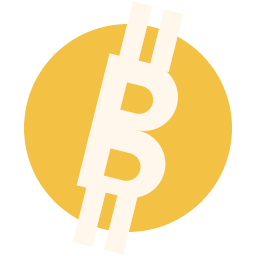
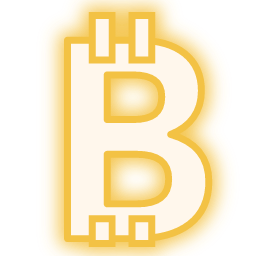
feat: restore the original glyphs, drop the circle, add an accent glow
The circle was the problem, not the glyphs. Five identical outlines with the
identity hidden inside meant colour did all the work; measured, every pairwise
silhouette distance was 0.000. The glyphs themselves — bolt, mark, key, arcs,
lock — were always distinct shapes, so removing the container turns the glyph
into the silhouette and frees it to grow into the space the circle used.

The accent moves from the circle's stroke to a halo behind the glyph: the same
shape stroked wide in the affinity colour and blurred, with the crisp cream glyph
on top. Two passes rather than a filter alone, so it still reads as a hard edge in
print where a pure blur goes muddy. resvg was checked for filter support before
relying on it.

Signal gets a dimmer halo than the rest. Its accent IS cream, so a cream glow
behind a cream glyph blew out into a white disc at the first attempt.

scripts/build_icons.py regenerates the set, so the geometry is reproducible rather
than five hand-edited files.

diff --git a/scripts/build_icons.py b/scripts/build_icons.py
@@ -1,0 +1,110 @@
+"""Rebuild the resource icons: the original glyphs, no containing circle, accent glow.
+
+The circle was what made the old set indistinguishable — five identical outlines with
+the identity hidden inside. The glyphs themselves were always distinct shapes, so
+dropping the circle turns the glyph into the silhouette and frees it to fill the box.
+
+The accent colour moves from the circle's stroke to a halo drawn behind the glyph:
+the same shape stroked wide in the affinity colour and blurred, with the crisp cream
+glyph on top. Two passes rather than a filter alone, so the icon still reads as a hard
+edge in print where a pure blur would go muddy.
+"""
+
+import os
+
+REPO = "G:/Github/TCG600nap"
+OUT = f"{REPO}/art/resources"
+
+ACCENT = {
+    "power": "#FF6A00",
+    "bitcoin": "#F3C244",
+    "keys": "#7447B8",
+    "signal": "#FFF7EC",
+    "timelock": "#17BEBB",
+}
+
+# The original glyph bodies, lifted verbatim from the pre-redesign icons. `{c}` is the
+# accent for the halo pass and `{f}` the fill for the crisp pass, so one body renders
+# both. `scale` lets each glyph grow into the space the circle used to occupy.
+GLYPH = {
+    "power": (
+        1.32,
+        '<path fill="{f}" stroke="{c}" stroke-width="{w}" stroke-linejoin="round"'
+        ' d="M35.3 8 17.8 35.1h11.4L25.9 56 46.2 27.5H34.4L35.3 8Z"/>',
+    ),
+    "bitcoin": (
+        1.24,
+        '<g transform="translate(-3.2 -.7)">'
+        '<path fill="{f}" stroke="{c}" stroke-width="{w}" stroke-linejoin="round"'
+        ' d="M23 15h14.2c8.1 0 12.8 3.8 12.8 10.2 0 4.1-2.2 7.2-6.2 8.8 5 1.4 7.7 4.7 7.7 9.5C51.5 51 46 55 37 55H23V15Zm8 7v9h5.2c4 0 5.8-1.4 5.8-4.6 0-3-1.9-4.4-5.8-4.4H31Zm0 16v10h6c4.4 0 6.4-1.7 6.4-5 0-3.4-2.2-5-6.5-5H31Z"/>'  # noqa: E501
+        '<rect x="28" y="10" width="4" height="9" fill="{f}" stroke="{c}" stroke-width="{w}"/>'
+        '<rect x="36" y="10" width="4" height="9" fill="{f}" stroke="{c}" stroke-width="{w}"/>'
+        '<rect x="28" y="51" width="4" height="5" fill="{f}" stroke="{c}" stroke-width="{w}"/>'
+        '<rect x="36" y="51" width="4" height="5" fill="{f}" stroke="{c}" stroke-width="{w}"/>'
+        "</g>",
+    ),
+    "keys": (
+        1.30,
+        '<g transform="translate(.8 -1.2)">'
+        '<path d="M20 37a11 11 0 1 1 10.2-15.2L53 44.6V52h-7v-5h-6v-5h-6.6l-3.2-3.2A11 11 0 0 1 20 37Z"'  # noqa: E501
+        ' fill="none" stroke="{s}" stroke-width="{k}" stroke-linejoin="round"/>'
+        '<circle cx="20" cy="26" r="3.5" fill="{f}" stroke="{c}" stroke-width="{w}"/>'
+        "</g>",
+    ),
+    "signal": (
+        1.28,
+        '<g transform="translate(0 5.2)">'
+        '<circle cx="32" cy="43" r="4" fill="{f}" stroke="{c}" stroke-width="{w}"/>'
+        '<path d="M22 35a14 14 0 0 1 20 0M15 28a24 24 0 0 1 34 0M9 20a33 33 0 0 1 46 0"'
+        ' fill="none" stroke="{s}" stroke-width="{k}" stroke-linecap="round"/>'
+        "</g>",
+    ),
+    "timelock": (
+        1.26,
+        '<g transform="translate(0 .3)">'
+        '<path d="M20 29v-6c0-7.2 5.4-13 12-13s12 5.8 12 13v6" fill="none"'
+        ' stroke="{s}" stroke-width="{k}" stroke-linecap="round"/>'
+        '<rect x="15" y="27" width="34" height="27" fill="none" stroke="{s}" stroke-width="{k}"/>'
+        '<circle cx="32" cy="40.5" r="8" fill="none" stroke="{s}" stroke-width="{k2}"/>'
+        '<path d="M32 35v6l4 3" fill="none" stroke="{s}" stroke-width="{k2}" stroke-linecap="round"/>'  # noqa: E501
+        "</g>",
+    ),
+}
+
+TITLE = {
+    "power": "Power",
+    "bitcoin": "Bitcoin",
+    "keys": "Keys",
+    "signal": "Signal",
+    "timelock": "Timelock",
+}
+
+TEMPLATE = """<svg xmlns="http://www.w3.org/2000/svg" viewBox="0 0 64 64"
+     role="img" aria-labelledby="title">
+  <title id="title">{title} resource</title>
+  <defs>
+    <filter id="glow" x="-45%" y="-45%" width="190%" height="190%">
+      <feGaussianBlur stdDeviation="1.7" result="b"/>
+    </filter>
+  </defs>
+  <g transform="translate(32 32) scale({scale}) translate(-32 -32)">
+    <g filter="url(#glow)" opacity="{alpha}">{halo}</g>
+    {crisp}
+  </g>
+</svg>
+"""
+
+os.makedirs(OUT, exist_ok=True)
+for name, (scale, body) in GLYPH.items():
+    accent = ACCENT[name]
+    # Halo pass: everything painted in the accent and widened, then blurred.
+    halo = body.format(f=accent, c=accent, s=accent, w=3.5, k=7, k2=5.5)
+    # Crisp pass: cream glyph, a thin accent edge to keep it from floating.
+    crisp = body.format(f="#FFF7EC", c=accent, s="#FFF7EC", w=1.4, k=5, k2=3)
+    alpha = 0.55 if name == "signal" else 0.92
+    svg = TEMPLATE.format(
+        title=TITLE[name], scale=f"{scale:.2f}", halo=halo, crisp=crisp, alpha=alpha
+    )
+    open(f"{OUT}/{name}.svg", "w", encoding="utf-8").write(svg)
+    print(f"  {name}.svg  scale {scale}  accent {accent}")
+print("5 icons rebuilt: original glyphs, no circle, accent glow")
